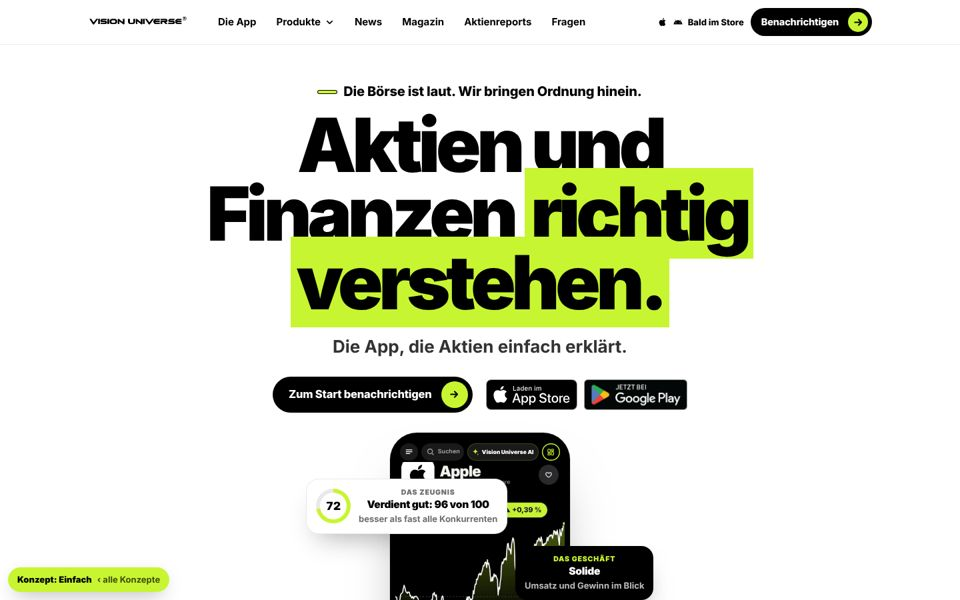
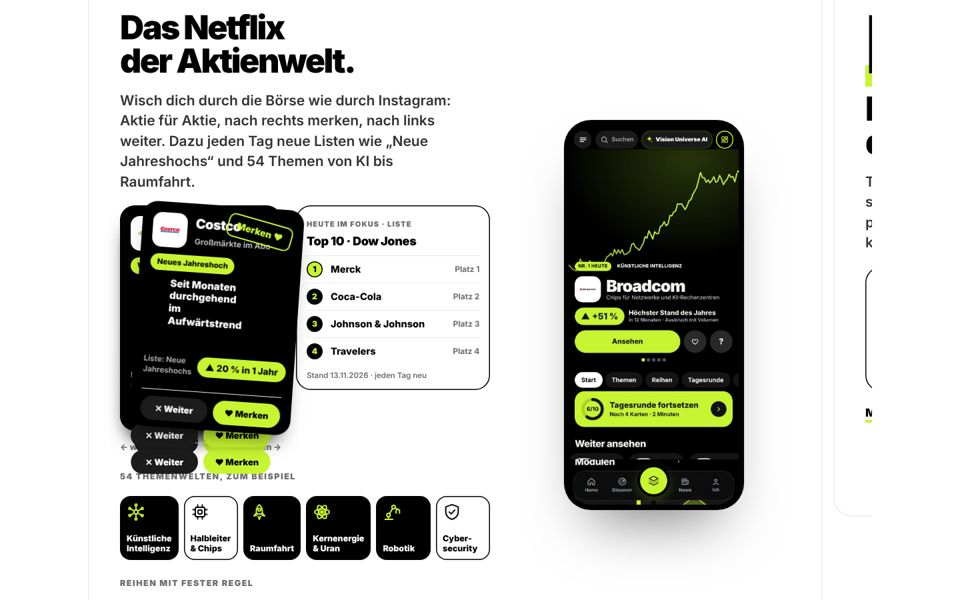
www (nur Vorschau): Konzept Einfach mit den Modulen der Live-Seite in Wisch-Boxen
Kapitel unverändert, gruppiert wie im Menü (Entdecken, Verstehen, Methoden,
Vorsorgen) als Boxen zum Wischen; News-Kacheln als Reihe. Filmbilder aus
dem vorigen Entwurf entfernt.

Claude-Session: https://claude.ai/code/session_01DVwZC7n9f15dtz6Bddomj7

diff --git a/landing/konzepte/t/einfach.css b/landing/konzepte/t/einfach.css
@@ -1,62 +1,51 @@
-/* Konzept „Einfach“: große Bilder, eine Aussage pro Bildschirm. Farben und Bausteine wie live. */
+/* Konzept „Einfach“: Module der Live-Seite unverändert, in Boxen zum Wischen gruppiert. */
 .kz-badge{position:fixed;left:12px;bottom:12px;z-index:90;display:inline-flex;gap:8px;align-items:center;padding:9px 14px;border-radius:99px;background:var(--lime);color:#000;font-weight:900;font-size:13px;box-shadow:0 10px 30px -10px rgba(0,0,0,.4)}
 .kz-badge span{font-weight:700;opacity:.7}
-@media(max-width:600px){.kz-badge span{display:none}}
-.ez .jbar,.ez .dock{display:none !important}
-.ez mark{background:var(--lime);padding:0 .08em}
+@media(max-width:600px){.kz-badge{font-size:12px;padding:7px 12px}.kz-badge span{display:none}}
+.ez .dock{display:none !important}
 
-.ez-hero{display:flex;flex-direction:column;align-items:center;text-align:center;padding-top:56px;padding-bottom:40px}
-.ez-hero .claimline{justify-content:center}
-.ez-hero h1{margin-top:14px;font-size:clamp(46px,8vw,112px);font-weight:900;letter-spacing:-.06em;line-height:.92;max-width:12ch;text-wrap:balance}
-.ez-lead{margin-top:18px;font-size:clamp(19px,2vw,26px);font-weight:700;color:#333;max-width:30ch}
-.ez-acts{display:flex;flex-wrap:wrap;justify-content:center;align-items:center;gap:14px 20px;margin-top:26px}
-.ez-acts .stores{margin:0}.ez-acts .stores .b img{height:46px;width:auto}
-.ez-hero .stage.mob{display:block !important;position:relative;width:min(560px,100%);height:640px;margin-top:30px}
-
-
-.ez-sec{padding-top:110px;padding-bottom:10px}
-.ez-h{font-size:clamp(36px,5.6vw,80px);font-weight:900;letter-spacing:-.055em;line-height:.95;text-align:center;text-wrap:balance}
-.ez-c{margin-top:28px;text-align:center}
-
-.ez-three{display:grid;gap:22px;margin-top:44px}
-@media(min-width:800px){.ez-three{grid-template-columns:repeat(3,1fr);gap:28px}}
-.ez-three figure,.ez-more figure{margin:0;display:flex;flex-direction:column;align-items:center;gap:16px}
-.ez-three .reel9{width:min(340px,100%)}
-.ez-three figcaption{text-align:center;font-size:clamp(20px,1.8vw,26px);font-weight:900;letter-spacing:-.03em;line-height:1.15}
-.ez-three figcaption small,.ez-read small{display:block;margin-bottom:4px;font-size:12.5px;font-weight:900;letter-spacing:.1em;text-transform:uppercase;color:var(--mute)}
-.reel9 .play{transition:transform .25s var(--ease)}.reel9:hover .play{transform:translate(-50%,-50%) scale(1.1)}
-
-.ez-split{display:grid;gap:30px;align-items:center}
-.ez-split .ez-txt{text-align:center}
-.ez-split .ez-txt .ez-lead{margin-left:auto;margin-right:auto}
-.ez-split .lnk{display:inline-block;margin-top:20px}
-@media(min-width:900px){
-  .ez-split{grid-template-columns:1.1fr .9fr;gap:60px}
-  .ez-split .ez-txt,.ez-split .ez-h{text-align:left}
-  .ez-split .ez-txt .ez-lead{margin-left:0}
-  .ez-rev .ez-txt{order:2}
+/* Start wie live, mit seinem iPhone daneben */
+.ez-top .step.first{min-height:0;border:0;padding-bottom:30px}
+.ez-top .step.first>*{justify-self:start}
+@media(min-width:1000px){
+  .ez-top .step.first{display:grid;grid-template-columns:1.1fr .9fr;column-gap:40px;align-items:center;min-height:calc(100svh - 80px);padding-right:0}
+  .ez-top .step.first>*{grid-column:1}
+  .ez-top .step.first .stage.mob{display:block !important;grid-column:2;grid-row:1/span 8;position:relative;width:100%;max-width:560px;height:640px}
 }
-.ez-split .reel9{width:min(380px,100%)}
 
-.ez-more{display:grid;grid-template-columns:repeat(2,1fr);gap:16px;margin-top:44px}
-@media(min-width:800px){.ez-more{grid-template-columns:repeat(5,1fr)}}
-.ez-more .reel9{width:100%;border-radius:20px;box-shadow:0 0 0 4px #000,0 30px 50px -30px rgba(0,0,0,.6)}
-.ez-more figcaption{font-weight:900;font-size:17px}
+/* Gruppen-Kopf */
+.ez-grp{padding-top:72px}
+.ez-hd{display:flex;align-items:flex-end;justify-content:space-between;gap:16px;margin-bottom:18px}
+.ez-h{margin-top:8px;font-size:clamp(34px,5vw,64px);font-weight:900;letter-spacing:-.05em;line-height:.98}
+.ez-arr{display:inline-flex;gap:8px;flex:none}
+.ez-arr button{display:inline-grid;place-items:center;width:44px;height:44px;border-radius:50%;border:0;background:#fff;box-shadow:inset 0 0 0 1.5px var(--hair);font-size:22px;line-height:1;cursor:pointer}
+.ez-arr button:hover:not(:disabled){box-shadow:inset 0 0 0 1.5px #000}
+.ez-arr button:disabled{opacity:.3;cursor:default}
+@media(max-width:700px){.ez-arr{display:none}}
+.ez-dots{display:flex;justify-content:center;gap:6px;margin-top:14px}
+.ez-dots i{width:7px;height:7px;border-radius:99px;background:var(--hair);transition:width .3s var(--ease),background .3s}
+.ez-dots i.on{width:22px;background:#000}
 
-.ez-read{display:grid;grid-template-columns:repeat(2,minmax(0,300px));justify-content:center;gap:24px;margin-top:44px}
-.ez-read a{display:flex;flex-direction:column;gap:12px;text-align:center;font-weight:900;font-size:18px}
-.ez-read img{width:100%;aspect-ratio:3/4;object-fit:cover;border-radius:10px;box-shadow:0 30px 50px -28px rgba(0,0,0,.55);transition:transform .3s var(--ease)}
-.ez-read a:hover img{transform:translateY(-6px) rotate(-1deg)}
-.ez main>[data-ch]{margin-top:90px}
-.ez .reel9 .play{left:auto;top:auto;right:16px;bottom:16px;transform:none;width:58px;height:58px}
-.ez .reel9:hover .play{transform:scale(1.1)}
-.ez-hero .ez-lead{margin-top:26px}
-.ez-three .reel9{width:min(300px,100%)}
-@media(max-width:799px){
-  .ez-three,.ez-more{display:grid;grid-template-columns:none;grid-auto-flow:column;grid-auto-columns:72%;overflow-x:auto;scroll-snap-type:x mandatory;scrollbar-width:none;padding:6px 20px 16px;margin-left:-20px;margin-right:-20px}
-  .ez-more{grid-auto-columns:46%}
-  .ez-three::-webkit-scrollbar,.ez-more::-webkit-scrollbar{display:none}
-  .ez-three figure,.ez-more figure{scroll-snap-align:center}
-  .ez-split .reel9{width:min(300px,86%);justify-self:center}
-  .ez-sec{padding-top:80px}
+/* Boxen zum Wischen: jedes Kapitel bleibt das Modul der Live-Seite */
+.ez-track{display:flex;gap:16px;overflow-x:auto;scroll-snap-type:x mandatory;scrollbar-width:none;padding:2px 2px 6px;align-items:stretch}
+.ez-track::-webkit-scrollbar{display:none}
+.ez-card.step{flex:none;width:calc(100% - 70px);min-height:0;margin:0;padding:32px 30px;border:0;border-radius:28px;box-shadow:inset 0 0 0 1.5px var(--hair);scroll-snap-align:start;justify-content:flex-start}
+.ez-card.step:only-child{width:100%}
+@media(min-width:1000px){
+  .ez-card.step{display:grid;grid-template-columns:1.15fr .85fr;column-gap:40px;align-content:start;padding:44px 48px}
+  .ez-card.step>*{grid-column:1;justify-self:start}
+  .ez-card.step>.aphone{display:block !important;grid-column:2;grid-row:1/span 12;align-self:center;justify-self:center;--pw:270px;margin:0}
 }
+@media(max-width:999px){
+  .ez-card.step{width:88%;padding:24px 20px 28px}
+  .ez-card.step .aphone{--pw:210px}
+}
+
+/* News: Kacheln als Reihe */
+.ez #news .hh{align-items:flex-end}
+.ntiles.ez-row{display:grid !important;grid-template-columns:none !important;grid-auto-flow:column;grid-auto-columns:minmax(240px,calc((100% - 42px)/4));overflow-x:auto;scroll-snap-type:x mandatory;scrollbar-width:none;padding-bottom:6px}
+.ntiles.ez-row::-webkit-scrollbar{display:none}
+.ntiles.ez-row .ntile{scroll-snap-align:start}
+@media(max-width:700px){.ntiles.ez-row{grid-auto-columns:78%}}
+.ez .full{padding-top:72px}
+.ez-track{align-items:flex-start}

diff --git a/landing/konzepte/t/einfach.js b/landing/konzepte/t/einfach.js
@@ -1,0 +1,66 @@
+/* Konzept „Einfach“ (Owner 21.11.2026): die Module von www.visionuniverse.de unverändert,
+   aber in Boxen zum Wischen gruppiert, damit die Seite kürzer wird. Nur Branch-Vorschau. */
+(function () {
+  "use strict";
+  var root = document.documentElement;
+  if (!root.classList.contains("ez")) return;
+  var reduce = window.matchMedia("(prefers-reduced-motion: reduce)").matches;
+  function $(s, c) { return (c || document).querySelector(s); }
+  function $$(s, c) { return [].slice.call((c || document).querySelectorAll(s)); }
+  function el(tag, cls, html) { var e = document.createElement(tag); if (cls) e.className = cls; if (html != null) e.innerHTML = html; return e; }
+  var story = $("main > .story"), hero = $(".step.first"), jbar = $(".jbar");
+  if (!story || !hero) return;
+
+  function arrows(track) {
+    var w = el("span", "ez-arr", '<button type="button" aria-label="Zurück">‹</button><button type="button" aria-label="Weiter">›</button>');
+    var b = $$("button", w), step = function () { var c = track.firstElementChild; return c ? c.getBoundingClientRect().width + 16 : track.clientWidth; };
+    b[0].addEventListener("click", function () { track.scrollBy({ left: -step(), behavior: reduce ? "auto" : "smooth" }); });
+    b[1].addEventListener("click", function () { track.scrollBy({ left: step(), behavior: reduce ? "auto" : "smooth" }); });
+    var upd = function () { b[0].disabled = track.scrollLeft < 4; b[1].disabled = track.scrollLeft + track.clientWidth > track.scrollWidth - 4; };
+    track.addEventListener("scroll", upd, { passive: true }); addEventListener("resize", upd); setTimeout(upd, 400);
+    return w;
+  }
+  function dots(track) {
+    var d = el("div", "ez-dots"); var n = track.children.length;
+    for (var i = 0; i < n; i++) d.appendChild(el("i"));
+    var upd = function () { var w = track.firstElementChild.getBoundingClientRect().width + 16, k = Math.round(track.scrollLeft / w); $$("i", d).forEach(function (x, j) { x.classList.toggle("on", j === k); }); };
+    track.addEventListener("scroll", upd, { passive: true }); setTimeout(upd, 300);
+    return d;
+  }
+
+  /* Gruppen wie im Menü der Live-Seite: Entdecken, Verstehen, Methoden, Vorsorgen */
+  var groups = [], byId = {};
+  $$(".nav .mcol").forEach(function (col) {
+    var name = ($(".mg", col) || {}).textContent || "", ids = $$("a", col).map(function (a) { return "k-" + a.getAttribute("href").replace(/.*produkte\//, "").replace(/\/.*/, ""); });
+    var g = { name: name, ids: ids, steps: [] }; groups.push(g); ids.forEach(function (id) { byId[id] = g; });
+  });
+  var chs = $$(".steps > .step:not(.first)");
+  chs.forEach(function (s) { var g = byId[s.id] || groups[1]; g.steps.push(s); });
+
+  var top = el("div", "ez-top w"); top.appendChild(hero);
+  story.parentNode.insertBefore(top, story);
+  groups.forEach(function (g) {
+    if (!g.steps.length) return;
+    var sec = el("section", "ez-grp w"), hd = el("div", "ez-hd");
+    hd.innerHTML = '<div><p class="kap">' + g.steps.length + (g.steps.length === 1 ? " Bereich" : " Bereiche") + '</p><h2 class="ez-h"></h2></div>';
+    $("h2", hd).textContent = g.name + ".";
+    var tr = el("div", "ez-track"); g.steps.forEach(function (s) { s.classList.add("ez-card"); tr.appendChild(s); });
+    if (g.steps.length > 1) hd.appendChild(arrows(tr));
+    sec.appendChild(hd); sec.appendChild(tr); if (g.steps.length > 1) sec.appendChild(dots(tr));
+    story.parentNode.insertBefore(sec, story);
+  });
+  story.remove(); if (jbar) jbar.remove();
+
+  /* News: Kacheln als Reihe zum Wischen */
+  var nt = $("#news .ntiles"), nh = $("#news .hh");
+  if (nt && nh) { nt.classList.add("ez-row"); nh.appendChild(arrows(nt)); }
+
+  /* Kapitel-Links (Menü, Fuß) springen zur Box */
+  document.addEventListener("click", function (e) {
+    var a = e.target.closest('a[href^="#k-"]'); if (!a) return;
+    var s = document.getElementById(a.getAttribute("href").slice(1)); if (!s || !s.classList.contains("ez-card")) return;
+    e.preventDefault(); var tr = s.parentNode;
+    tr.scrollTo({ left: s.offsetLeft - tr.offsetLeft, behavior: reduce ? "auto" : "smooth" });
+    tr.parentNode.scrollIntoView({ behavior: reduce ? "auto" : "smooth" });
+  }, true);
+})();

diff --git a/landing/konzepte/index.html b/landing/konzepte/index.html
@@ -3,9 +3,9 @@
 <body><main class="w kp">
 <img class="logo" src="../assets/vision-universe-logo-web.png" alt="Vision Universe" width="1086" height="362">
 <p class="kp-k">Konzepte · 19.11.2026 · nur Vorschau, nicht live</p>
-<h1>Weniger lesen. <mark>Sofort verstehen.</mark></h1>
+<h1>Gleiche Module. <mark>Weniger scrollen.</mark></h1>
 <div class="kp-grid kp-two">
-<a class="kp-card" href="./e/"><span class="kp-shot"><img src="./t/e.jpg" alt=""></span><span class="kp-t"><small>Neu · Empfehlung</small><b>Einfach</b><em>Eine Aussage pro Bildschirm, große Bilder statt langer Texte. Oben „Aktien und Finanzen richtig verstehen.“ mit dem iPhone. Dann „Zu jeder Aktie die Antwort.“: drei große Filmbilder mit je einer Frage. Dann Discover und Vision Universe AI je mit einem Bild und einem Satz, „Und noch mehr.“ mit den übrigen Bereichen, „Jede Woche neu.“ mit Magazin und Report, dann die Anmeldung. Jedes Bild spielt beim Antippen den Film ab.</em></span></a>
+<a class="kp-card" href="./e/"><span class="kp-shot"><img src="./t/e.jpg" alt=""></span><span class="kp-t"><small>Neu · Empfehlung</small><b>Einfach</b><em>Alle Module der Live-Seite, unverändert: Start mit iPhone, die Kapitel mit ihren Grafiken und ihrem iPhone, News, Filme, Social, Fragen, Anmeldung. Die Kapitel stehen nicht mehr untereinander, sondern in vier Boxen zum Wischen, gruppiert wie im Menü: Entdecken, Verstehen, Methoden, Vorsorgen. Die News-Kacheln sind eine Reihe. Die Seite ist am Desktop rund 40 % und am Handy rund 45 % kürzer.</em></span></a>
 </div>
 <h2 class="kp-h">Zum Vergleich: unsere Seite im Aufbau von DLS und Rockstar</h2>
 <p class="kp-lead">Beide Mockups bestehen nur aus den Bausteinen von www.visionuniverse.de in ihrem heutigen Design: Start mit iPhone, die zwölf Kapitel, News, Magazin, Report, Filme, Social, Fragen, Anmeldung. Keine neuen Farben, Bilder oder Filme. Anders ist nur, wie die Bausteine technisch angeordnet sind.</p>
